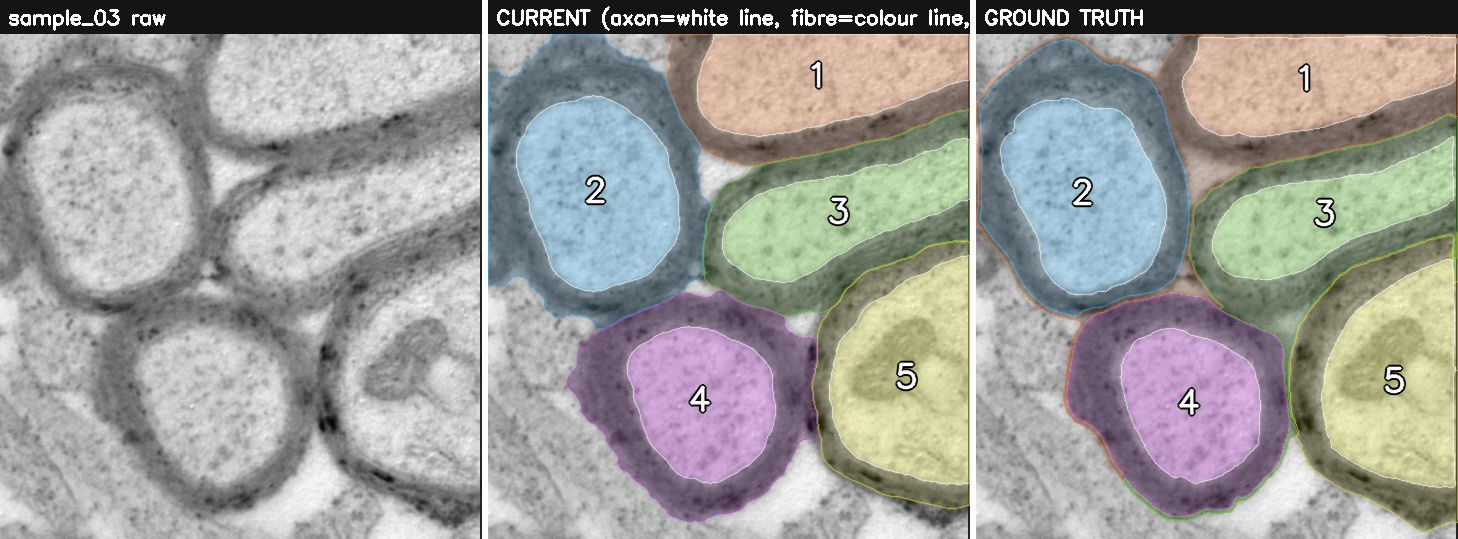
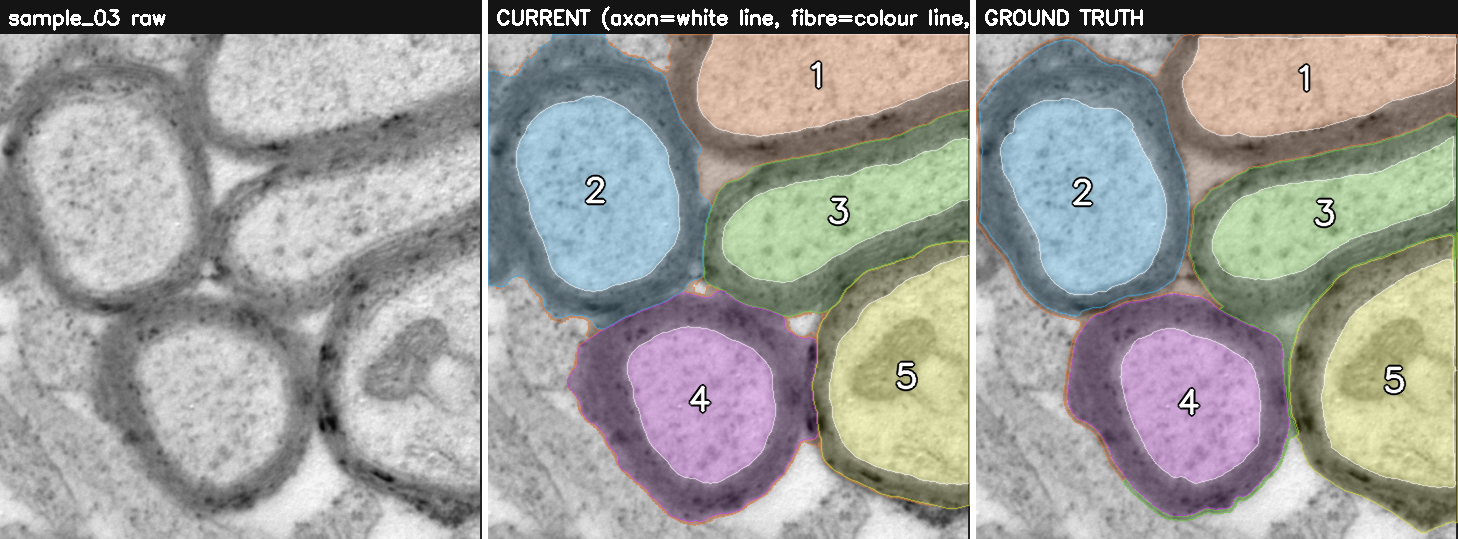
Follow solid dark myelin outward past the cap (dense-dark extension) (R27)
Owner insight: the very-dark areas conform to the outer border, especially the
bottom of sample_02 where we stop mid-sheath. Validated: local DARK-DENSITY
cleanly separates myelin (0.94-1.00 solid dark) from neuropil (0.00-0.12 sparse
dark) -- unlike ridge/coherence/orientation/periodicity, which all saturate in
the dense neuropil (measured, see scratch analysis).

New A-MYELIN-DENSE assumption + _extend_dense_dark: per direction, follow the
solid dark outward from the capped fibre; extend where the dense run ENDS in
sparse neuropil (the true outer membrane) within a generous radius; keep the cap
where the dense run reaches a touching neighbour with no gap (sample_02 top, the
acknowledged ambiguous case). Per-ray targets are circular-median smoothed so a
lone ray cannot spike out.

Fixes under-reach where the median-thickness cap clips a locally thick sheath:
  MEAN myelin 0.840 -> 0.850, fiber 0.945 -> 0.950 (recall 1.00/1.00, 38 tests)
  sample_01 myelin +0.010, sample_03 +0.020 (neuron 5), sample_02 bottom now
  covered (IoU neutral: bottom gained, top left at the cap as agreed).

Registered as A-MYELIN-DENSE in docs/reference/assumptions.md with its failure
mode (neuropil as dense as myelin / no gap between touching sheaths).

diff --git a/gratio/pipeline.py b/gratio/pipeline.py
@@ -128,6 +128,16 @@ DEFAULTS = dict(
                               # thickness. One scale-free rule for every fibre (replaces the R19
                               # per-pocket enclosure heuristic, which was tuned to one sample and
                               # over-reached on the others). 0 = off.
+    dense_extend=True,        # follow the SOLID dark myelin outward past the thickness cap where
+                              # it ends in sparse neuropil (fixes under-reach of locally-thick
+                              # sheaths). Relies on A-MYELIN-DENSE. See _extend_dense_dark.
+    dense_extend_win=17,      # px window for the local dark-density (myelin=solid dark, neuropil=
+                              # sparse). Scale-dependent (a few lamellar periods).
+    dense_extend_thr=0.4,     # min local dark fraction to count as solid myelin
+    dense_extend_gmult=3.0,   # generous radius for the follow = this x the fibre's measured thickness;
+                              # a dense run reaching it is a touching neighbour (no gap) -> not extended
+    dense_extend_gap=8,       # sparse-run length (px) that marks the end of the sheath (outer membrane)
+    dense_extend_rays=360,    # angular resolution of the per-direction follow
     membrane_outer_boundary=False,  # OPT-IN: trim outer over-reach past the outermost myelin
                               # lamella (ridge-guided flood). OFF by default -- relies on the
                               # biological A-MYELIN-LAMELLAR assumption (concentric resolvable
@@ -314,6 +324,93 @@ def _refine_outer_membrane(gf, axon_mask, myelin_mask, fiber_mask, myelin_mat, P
     trim = fib & flooded & (axon_mask == 0)      # bright over-reach past the outer membrane
     fiber_mask = np.where(trim, 0, fiber_mask)
     myelin_mask = np.where(trim, 0, myelin_mask)
+    return axon_mask, myelin_mask, fiber_mask
+
+
+def _extend_dense_dark(axon_mask, myelin_mask, fiber_mask, dense, axons, P):
+    """Follow the SOLID dark myelin outward past the thickness cap, per direction.
+
+    # BIOLOGICAL ASSUMPTION [A-MYELIN-DENSE] -- see docs/reference/assumptions.md:
+    # myelin is SOLIDLY dark (high local dark-pixel density) whereas extracellular
+    # neuropil is only SPARSELY dark. So the sheath can be followed outward through
+    # the solid-dark region and it ENDS where the density drops to neuropil. Per ray
+    # from the axon centre: extend the fibre through dense-dark until it terminates in
+    # neuropil (the true outer edge) within a generous radius; if instead the dense
+    # run reaches the generous radius, it is a touching neighbour's myelin with no gap
+    # -- keep the current (capped) edge there. This fixes under-reach where the median
+    # thickness cap clips a locally thick sheath, without running into a neighbour.
+    # Fails if neuropil is as densely dark as myelin (heavy stain / low resolution).
+    """
+    H, W = dense.shape
+    add = np.zeros((H, W), bool)
+    lab = fiber_mask                                     # per-axon fibre labels
+    gap = int(P['dense_extend_gap'])
+    NS = int(P['dense_extend_rays'])
+    for a in axons:
+        i = a['id']
+        cur = fiber_mask == i
+        am = axon_mask == i
+        if not cur.any():
+            continue
+        cx, cy = a['cx'], a['cy']
+        dax = distance_transform_edt(~am)
+        m = cur & ~am
+        th = float(np.median(dax[m])) if m.any() else 10.0
+        gen = P['dense_extend_gmult'] * th
+        rlim = int(a['r'] + gen + 5)
+        rc_r = np.zeros(NS); tgt_r = np.zeros(NS)
+        for k in range(NS):
+            ang = 2 * np.pi * k / NS
+            dx, dy = np.cos(ang), np.sin(ang)
+            rc = 0                                        # current fibre outer radius along ray
+            for r in range(rlim, 0, -1):
+                x = int(round(cx + dx * r)); y = int(round(cy + dy * r))
+                if 0 <= x < W and 0 <= y < H and cur[y, x]:
+                    rc = r; break
+            rc_r[k] = rc
+            if rc == 0:
+                continue
+            last = rc; brun = 0; hit = False
+            r = rc + 1
+            while r < rc + int(gen) + 1:
+                x = int(round(cx + dx * r)); y = int(round(cy + dy * r))
+                if not (0 <= x < W and 0 <= y < H):
+                    break
+                if dax[y, x] > gen:                       # reached generous radius (neighbour)
+                    hit = True; break
+                if lab[y, x] not in (0, i) or (axon_mask[y, x] not in (0, i)):
+                    break                                 # do not invade another fibre/axon
+                if dense[y, x]:
+                    last = r; brun = 0
+                else:
+                    brun += 1
+                    if brun >= gap:
+                        break                             # dense run ended in neuropil
+                r += 1
+            tgt_r[k] = last if (not hit and last > rc) else rc
+        # circular-median smooth the extended radius so a lone ray cannot spike out:
+        # an extension survives only if neighbouring rays agree (a broad arc), not as a spine.
+        pad = 4
+        ext = np.concatenate([tgt_r[-pad:], tgt_r, tgt_r[:pad]])
+        tgt_s = np.array([np.median(ext[j:j + 2 * pad + 1]) for j in range(NS)])
+        for k in range(NS):
+            if rc_r[k] == 0:
+                continue
+            top = int(min(tgt_s[k], tgt_r[k]))            # never extend past this ray's own dense end
+            ang = 2 * np.pi * k / NS; dx, dy = np.cos(ang), np.sin(ang)
+            for r in range(int(rc_r[k]), top + 1):
+                x = int(round(cx + dx * r)); y = int(round(cy + dy * r))
+                if 0 <= x < W and 0 <= y < H:
+                    add[y, x] = True
+    if not add.any():
+        return axon_mask, myelin_mask, fiber_mask
+    add = cv2.dilate(add.astype(np.uint8), np.ones((3, 3), np.uint8)) > 0   # close inter-ray gaps
+    for a in axons:
+        i = a['id']
+        fm = binary_fill_holes((fiber_mask == i) | (add & (fiber_mask <= 0)))
+        newpix = fm & (fiber_mask == 0)
+        fiber_mask = np.where(newpix, i, fiber_mask)
+        myelin_mask = np.where(newpix & (axon_mask == 0), i, myelin_mask)
     return axon_mask, myelin_mask, fiber_mask
 
 
@@ -548,6 +645,20 @@ def segment(gray: np.ndarray, **overrides) -> dict:
         bubble |= gap
         axons.append(dict(id=a['id'], cx=a['cx'], cy=a['cy'], r=a['r'],
                           solidity=a['solidity'], area=A_ax, myelin_area=A_my, g=g))
+
+    # Follow the solid dark myelin outward past the thickness cap where it ends in
+    # sparse neuropil (fixes locally-thick sheaths the median cap clips). A-MYELIN-DENSE.
+    if P['dense_extend'] and axons:
+        dark = (gf < float(np.percentile(gf, fill_pct))).astype(np.float32)
+        dense = cv2.boxFilter(dark, -1, (int(P['dense_extend_win']),) * 2) > P['dense_extend_thr']
+        axon_mask, myelin_mask, fiber_mask = _extend_dense_dark(
+            axon_mask, myelin_mask, fiber_mask, dense, axons, P)
+        myelin_mask = np.where((fiber_mask > 0) & (axon_mask == 0) & ~bubble, fiber_mask, 0)
+        for a in axons:
+            A_ax = int((axon_mask == a['id']).sum())
+            A_my = int((myelin_mask == a['id']).sum())
+            a['area'], a['myelin_area'] = A_ax, A_my
+            a['g'] = float(np.sqrt(A_ax / (A_ax + A_my))) if A_ax + A_my > 0 else float('nan')
 
     # final polish: refit each axon + fibre border as a smooth curve (vector-like,
     # hand-tracing look) without shrinking; bubbles stay excluded from myelin.

diff --git a/docs/reference/assumptions.md b/docs/reference/assumptions.md
@@ -13,6 +13,7 @@ site that relies on it.
 |----|------------|-------|---------------------------------|
 | **A-MYELIN-DARK** | Myelin is *darker* than the axoplasm and than most extracellular space (osmium-stained TEM). | `myelin_percentile`, `myelin_fill_percentile` threshold the darkest pixels as myelin. | Inverted-contrast modalities (some SEM) mark axoplasm as "myelin". Needs a polarity flip (`255 - image`), as in `reference_run.py`. |
 | **A-MYELIN-LAMELLAR** | The myelin sheath is a stack of *concentric membranes* (lamellae) that render as ridges, and genuine extracellular space is reachable from outside the fibre **without crossing a lamella**. | `membrane_outer_boundary` (opt-in) refines the outer edge by flooding inward from the background, blocked by ridge (meijering+sato) and dark-myelin barriers. | Immature / compact-only / thin myelin with no resolvable lamellae, or magnification too low to resolve them, leaves no ridge barrier → the flood leaks into real myelin and trims it. **This is why the feature is OFF by default** (on the current 3 images it trims real compact myelin through lamella gaps; net ≈ −0.003 IoU). |
+| **A-MYELIN-DENSE** | Myelin is *solidly* dark (high local dark-pixel density); extracellular neuropil is only *sparsely* dark (scattered membranes in bright ground). So the sheath can be followed outward through the solid-dark region and it **ends where the density drops to neuropil**. | `dense_extend` (ON) follows the solid dark outward per direction past the thickness cap; extends where the dense run ends in neuropil, keeps the cap where it runs to a touching neighbour (no gap). Fixes locally-thick sheaths the median cap clips. | Fails where neuropil is as densely dark as myelin (very heavy osmium, or magnification so low the neuropil membranes merge) → the follow would run out into the tissue. Also cannot separate two touching sheaths with no bright/sparse gap between them (that boundary is left at the cap — see sample_02 top). |
 | **A-ISOLATED-TIGHTER** | An *isolated* fibre's myelin is not much thicker than its own measured ring; dark tissue extending far past that ring is a neighbouring cell, not this fibre's myelin. | `myelin_thickness_mult_isolated` (=1.8) caps an isolated axon's band tighter than a clustered one (`isolation_ramp`). | A genuinely thick-myelin *isolated* fibre (e.g. large PNS fibre alone in frame) would be clipped. **Calibrated on exactly ONE isolated axon (sample_02)** — the single weakest-supported number in the pipeline. |
 | **A-SHEATHS-MEET-BY-THICKNESS** | Where two fibres touch, their sheaths meet in proportion to each fibre's *own* myelin thickness (not at the geometric midline). | Thickness-weighted territory: pixel → axon minimising `distance / own_thickness`. | Two touching fibres with very unequal *staining* (not thickness) could be mis-split; assumes thickness, not intensity, sets the meeting line. |
 | **A-AXON-CONVEX-BRIGHT** | An axon body is a bright, roughly convex compartment above a size floor. | `min_axon_frac`, `min_solidity`, `bright_margin` in axon detection. | Very small, dark, or highly non-convex axons (severe pathology) may be missed or split. |

diff --git a/docs/reference/user_masks.md b/docs/reference/user_masks.md
@@ -125,10 +125,10 @@ no false positives**, then maximise class overlap.
 
 | sample     | axon IoU | myelin IoU | fibre IoU | detect P / R |
 |------------|---------:|-----------:|----------:|:------------:|
-| sample_01  | 0.91 | 0.86 | 0.95 | 1.00 / 1.00 |
-| sample_02  | 0.96 | 0.85 | 0.94 | 1.00 / 1.00 |
-| sample_03  | 0.92 | 0.81 | 0.95 | 1.00 / 1.00 |
-| **mean**   | **0.93** | **0.84** | **0.95** | **1.00 / 1.00** |
+| sample_01  | 0.91 | 0.87 | 0.96 | 1.00 / 1.00 |
+| sample_02  | 0.96 | 0.85 | 0.93 | 1.00 / 1.00 |
+| sample_03  | 0.92 | 0.83 | 0.96 | 1.00 / 1.00 |
+| **mean**   | **0.93** | **0.85** | **0.95** | **1.00 / 1.00** |
 
 (baseline before tuning was axon 0.74 / myelin 0.51 / fibre 0.80, recall 0.80.)
 
